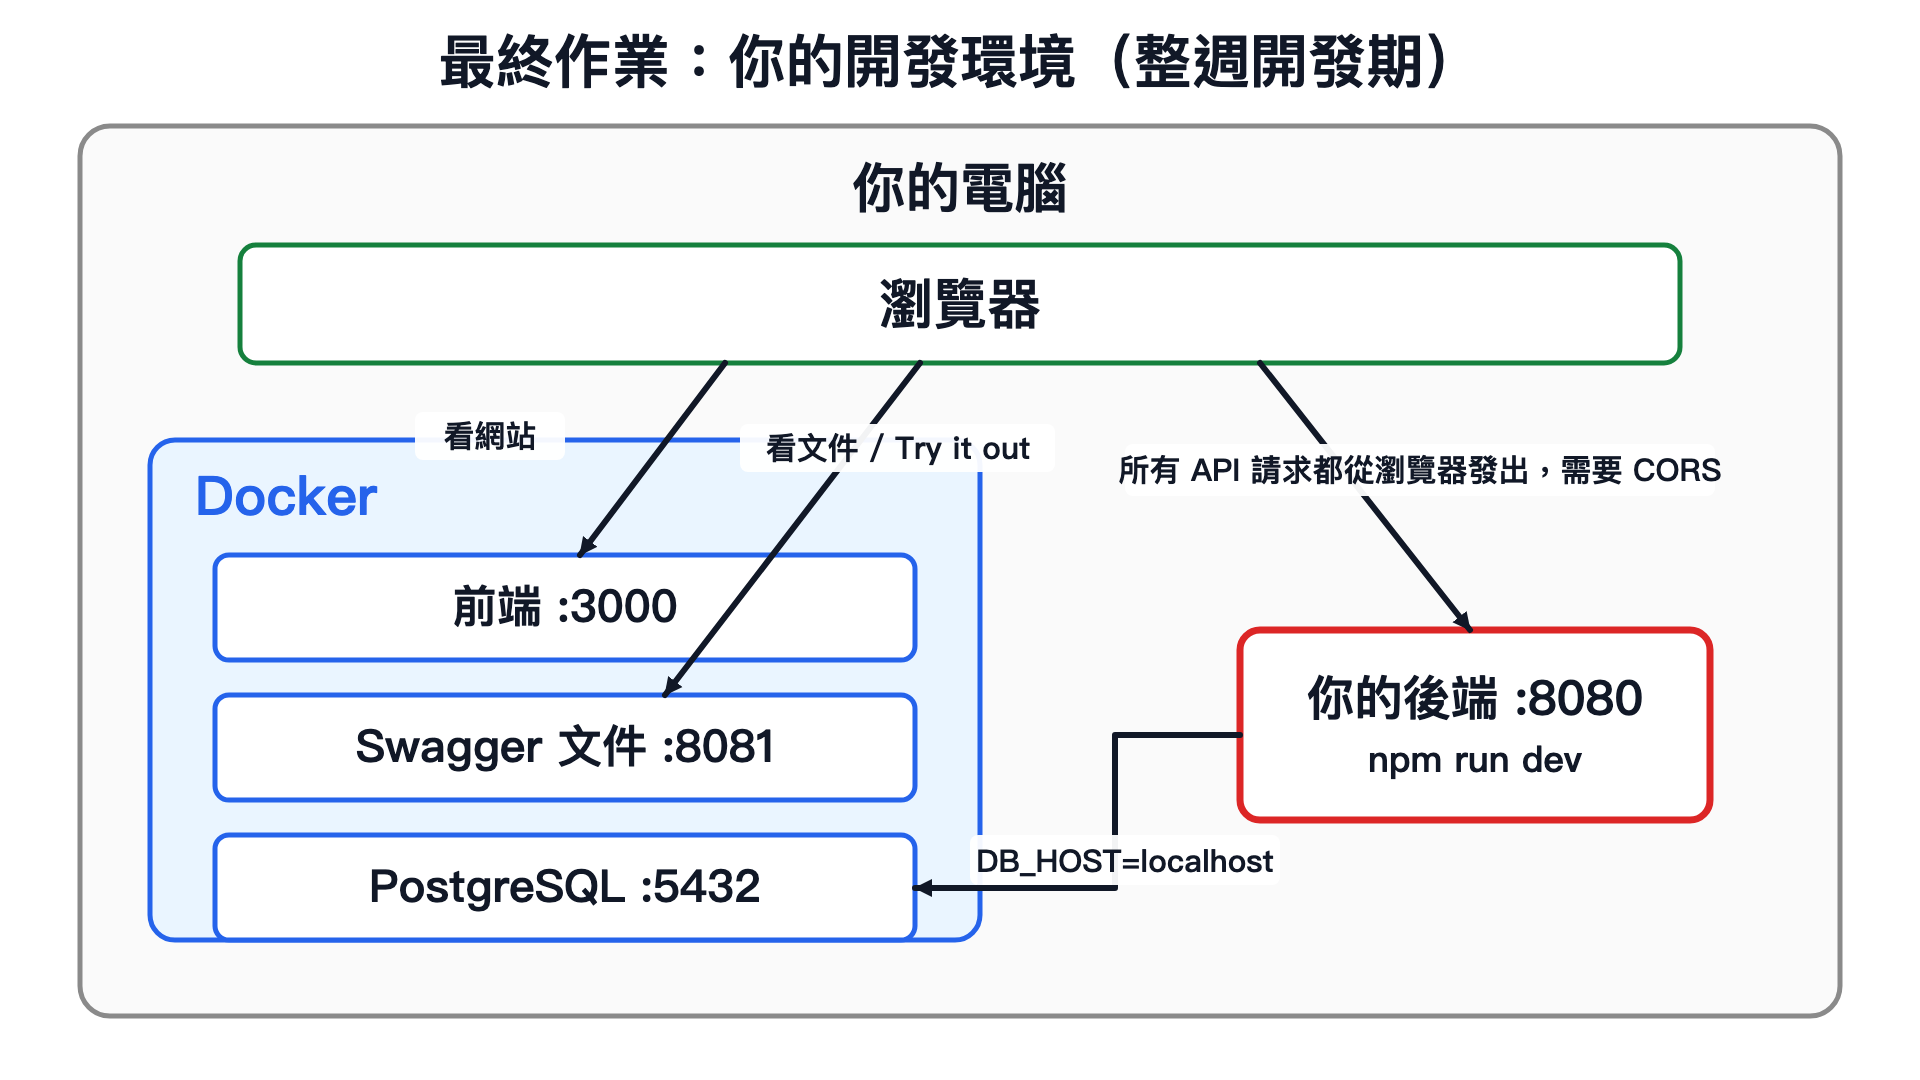
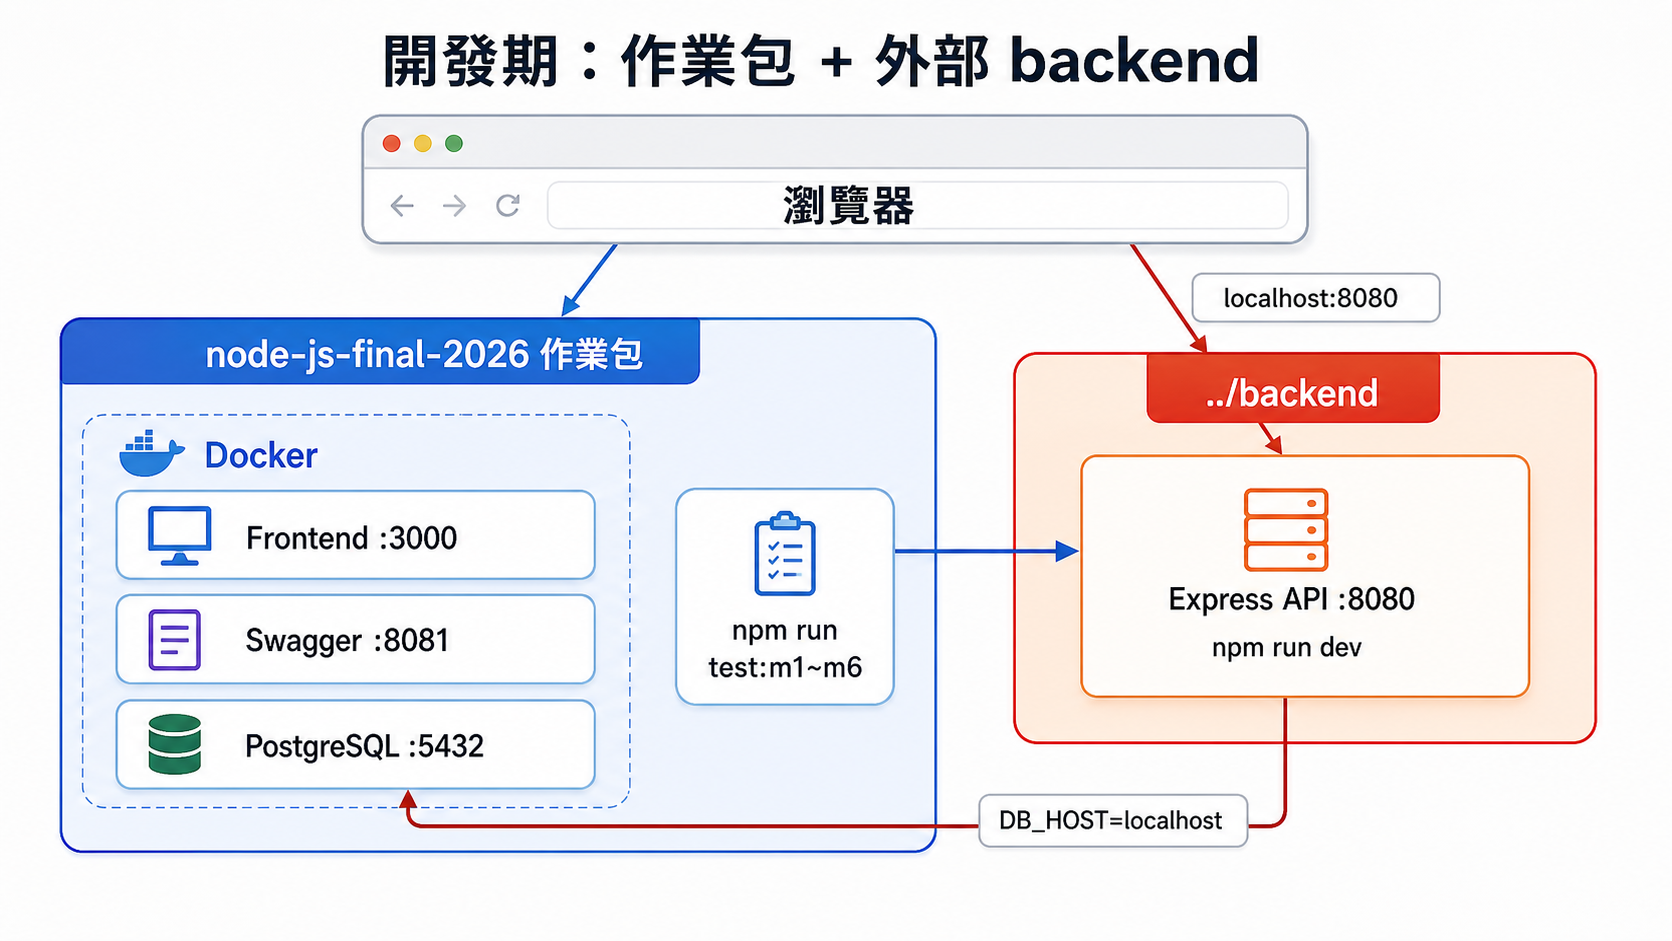
refactor: support external backend workflow

Changed region(s): [[0.0311, 0.0308, 0.9641, 0.9554], [0.0311, 0.1233, 0.0622, 0.1541]]

diff --git a/.github/scripts/check-backend.js b/.github/scripts/check-backend.js
@@ -1,0 +1,25 @@
+const fs = require('fs')
+const path = require('path')
+
+const backendPackagePath = path.join(process.cwd(), 'backend', 'package.json')
+
+function fail(message) {
+  console.error(message)
+  process.exit(1)
+}
+
+if (!fs.existsSync(backendPackagePath)) {
+  fail('⛔ 找不到 backend/package.json：本機開發時後端可以放在 repo 外面；正式繳交前，請把它搬進本 repo 的 backend/。')
+}
+
+let backendPackage
+try {
+  backendPackage = JSON.parse(fs.readFileSync(backendPackagePath, 'utf8'))
+} catch (error) {
+  fail('⛔ backend/package.json 不是合法 JSON，請先修正後再重新執行。')
+}
+
+if (!backendPackage.scripts || !backendPackage.scripts.start) {
+  fail('⛔ backend/package.json 缺少 scripts.start：正式繳交時，根目錄 npm start 會代理執行 npm --prefix backend start。')
+}
+

diff --git a/README.md b/README.md
@@ -34,30 +34,50 @@ docker compose up -d
 
 **成功長什麼樣**：`docker compose ps` 三個服務都在跑；打開 localhost:3000 看到健身房首頁。
 
-整週開發期的系統環境長這樣（注意：**你的後端在 Docker 外面**，跑在本機）：
+整週開發期的系統環境長這樣：這個 repo 是**作業包**，負責前端、Swagger、PostgreSQL 和測試；你的後端先放在作業包旁邊的 `../backend/`，跑在本機 `localhost:8080`。
 
 ![開發環境圖](docs/images/dev-environment.png)
 
-### Step 3：建立你的後端
+### Step 3：建立你的外部後端
 
 ```bash
-cp .env.example .env     # 資料庫連線資訊都在裡面，跟 Docker 裡的 PostgreSQL 對好了
-npm install              # 先裝驗收測試需要的工具
+npm install              # 在作業包根目錄先裝驗收測試需要的工具
 ```
 
-接下來就是你的世界：在這個 repo 裡蓋你的後端（資料夾結構自己決定），
-需要什麼套件自己 `npm install`。完成後記得遵守下面的四條公約。
+接著開一個**跟本 repo 同層**的後端資料夾：
 
-**成功長什麼樣**：你的 server 起來後（腳手架沒附 dev script，自己加一個，
-例如 `"dev": "nodemon bin/www.js"`），打開 http://localhost:8081
-對 `GET /healthcheck` 按 Try it out → 回 200。
+```bash
+cd ..
+mkdir backend
+cd backend
+npm init -y
+npm install express cors dotenv pg
+npm install -D nodemon
+cp ../node-js-final-2026/.env.example .env
+```
+
+如果你的作業包資料夾不叫 `node-js-final-2026`，把上面那段路徑換成你的資料夾名稱即可。`.env.example` 裡的資料庫連線資訊已經跟 Docker 裡的 PostgreSQL 對好，開發期 `DB_HOST=localhost`。
+
+開發期的資料夾會長這樣：
+
+```txt
+node-js-final-2026/   # 作業包：前端、Swagger、PostgreSQL、測試
+backend/              # 你自己寫的後端，跑在 localhost:8080
+```
+
+**成功長什麼樣**：在 `backend/` 裡啟動你的 server（例如 `npm run dev`），打開 http://localhost:8081 對 `GET /healthcheck` 按 Try it out → 回 200。
 
 ### Step 4：開發迴圈（每支 API 都這樣走）
 
+開發期建議固定開兩個終端機：
+
+- 終端機 A：在外部 `../backend/` 跑 `npm run dev`，讓後端持續聽 `localhost:8080`
+- 終端機 B：在本作業包根目錄跑 `npm run test:m1` ~ `npm run test:m6`
+
 1. **Swagger 看規格**（localhost:8081）— request/response 範例都在
-2. **寫 code** — 存檔自動重啟（建議用 nodemon）
+2. **在 `../backend/` 寫 code** — 存檔自動重啟（建議用 nodemon）
 3. **Try it out 試打** — 需要登入的 API 先按右上角 Authorize 貼上 login 拿到的 token
-4. **跑該里程碑的測試** — `npm run test:m1`（機器裁判，紅了照訊息修）
+4. **回作業包跑該里程碑的測試** — `npm run test:m1`（機器裁判，紅了照訊息修；測試會打 `localhost:8080`）
 5. **重新整理 localhost:3000** — 看著頁面活過來 🎉
 
 ---
@@ -66,8 +86,8 @@ npm install              # 先裝驗收測試需要的工具
 
 | # | 公約 | 為什麼 |
 |---|---|---|
-| ① | `npm start` 要能啟動你的後端，並聽 `PORT` 環境變數指定的 port | CI 用這個指令起你的 server |
-| ② | 資料庫連線與 `JWT_SECRET` 一律從環境變數讀（參考 `.env.example` 的 key 名） | CI 的資料庫設定跟你本機不同 |
+| ① | 正式繳交時，根目錄 `npm start` 要能啟動 `backend/` 裡的後端，並聽 `PORT` 環境變數指定的 port | CI 用這個指令起你的 server |
+| ② | 資料庫連線與 `JWT_SECRET` 一律從環境變數讀（開發期可把本 repo 的 `.env.example` 複製到外部 `backend/.env`） | CI 的資料庫設定跟你本機不同 |
 | ③ | 拿到**空的** PostgreSQL，你的後端要能自己把資料表建出來 | CI 每次都給你全新的資料庫 |
 | ④ | `GET /healthcheck` 回 200，而且要**等資料庫真的可用之後**才回 200 | CI 靠它判斷你的 server 就緒了沒 |
 
@@ -109,16 +129,23 @@ npm install              # 先裝驗收測試需要的工具
 | M4 | 公開瀏覽:教練列表/詳情/課表 | `npm run test:m4` | 教練列表、教練詳情 |
 | M5 | 購買與報名（地雷王） | `npm run test:m5` | 購買方案、報名課程、我的課表 |
 | M6 | 月營收統計 ⭐ 挑戰 | `npm run test:m6` | 教練營收報表 |
-| 壓軸 | 容器化:你的後端進 Docker | `npm run test:smoke` | — |
+| 壓軸 | 容器化:你的後端進 Docker | `docker compose up -d --build backend postgres` 後跑 `npm run test:smoke` | — |
 
 **通過標準**：GitHub Actions **七顆 jobs 全數綠燈**（66 條合約測試 + 容器化壓軸），缺一不可。
 
-**壓軸（W10 容器化挑戰）**：幫你的後端寫 Dockerfile、加進 `docker-compose.yml`
-（規則寫在 compose 檔的註解裡：服務叫 `backend`、對外開 8080、要有 healthcheck）。
+**壓軸（W10 容器化挑戰）**：本機 M1~M6 都過之後，把外面的 `backend/` 搬進本 repo，變成 `node-js-final-2026/backend/`。只要準備 push / 繳交，就必須先完成這個搬進 repo 的動作。接著幫你的後端寫 Dockerfile、加進 `docker-compose.yml`
+（規則寫在 compose 檔的註解裡：服務叫 `backend`、build `./backend`、對外開 8080、要有 healthcheck）。
 CI 會用你的 compose 起整包、跑 smoke、然後**重啟你的容器確認資料還在**
 （所以資料一定要真的存進 PostgreSQL，放在程式記憶體裡過不了這關）。
 
-容器化完成後的系統環境（對照上面開發期的圖：你的後端搬進圈內，`DB_HOST` 跟著變）：
+本機驗證容器化時，先停掉外部 `../backend/` 的 dev server，避免 8080 被佔住：
+
+```bash
+docker compose up -d --build backend postgres
+npm run test:smoke
+```
+
+容器化完成後的系統環境（對照上面開發期的圖：外部 `backend/` 被搬進本 repo，變成 Docker 裡的 `backend` service，`DB_HOST` 跟著變成 `postgres`）：
 
 ![容器化後環境圖](docs/images/dockerized.png)
 
@@ -126,26 +153,26 @@ CI 會用你的 compose 起整包、跑 smoke、然後**重啟你的容器確認
 
 ## 📮 繳交方式
 
-1. 全部做完（或做到哪交到哪）→ push 上 GitHub
+1. 全部做完並確認 `backend/` 已搬進本 repo，再 push 上 GitHub
 2. 確認 Actions 的 jobs 狀態（哪幾顆綠 = 你完成了哪些里程碑）
 3. 把 README 最上面 badge 連結裡的帳號/repo 改成你自己的
 4. **繳交：你的 repo 網址 + 一張前端跑起來的截圖**（任何一頁有真資料的畫面）
 
-> 📏 **考卷規則**：`test/` 與 `.github/` 兩個資料夾是考卷，**不可修改**。
-> 評分時會用原版測試抽查重跑，改考卷以 0 分計。（`frontend/` 與 `docs/` 也請不要動。）
+> 📏 **考卷規則**：`test/`、`.github/`、根目錄 `package.json` / `package-lock.json` 是驗收包，**不可修改**。
+> 評分時會用原版測試抽查重跑，改考卷以 0 分計。（你的後端依賴請裝在 `backend/package.json`；`frontend/` 與 `docs/` 也請不要動。）
 
 ---
 
 ## ❓ FAQ
 
 **Q1：前端打 API 一直被擋（CORS 錯誤）？**
-前端在 3000、你的後端在 8080，瀏覽器會擋跨來源請求。這就是 W3 教過的 `cors` 上場的時刻 — 想想那行 `app.use(cors())` 是幹嘛的。（Swagger 的 Try it out 從 8081 打過來顯示 `Failed to fetch` 也是同一件事——這行加了，前端跟 Swagger 同時通。）
+前端在 3000、你的後端在 8080，瀏覽器會擋跨來源請求。這就是 W3 教過的 `cors` 上場的時刻 — 想想那行 `app.use(cors())` 是幹嘛的。（不管你的後端開發期在外部 `../backend/`，還是最後搬進 Docker，前端和 Swagger 都是從瀏覽器打 `localhost:8080`。）
 
 **Q2：Actions 紅燈了，怎麼讀？**
-三步：① 看哪個 step 紅 — 「啟動你的後端」紅 = server 沒起來或 healthcheck 沒回 200，往下看 server.log 的錯誤訊息（通常是環境變數沒讀到）；② 「跑測試」紅 = 點開看哪個測試名稱失敗，測試名稱就是行為描述；③ 回本機 `npm run test:m{N}` 重現它。
+三步：① 看哪個 step 紅 — 「檢查 backend/」紅 = 忘了把外部後端搬進本 repo；「啟動你的後端」紅 = server 沒起來或 healthcheck 沒回 200，往下看 server.log 的錯誤訊息（通常是環境變數沒讀到）；② 「跑測試」紅 = 點開看哪個測試名稱失敗，測試名稱就是行為描述；③ 回本機 `npm run test:m{N}` 重現它。
 
 **Q3：本機測試紅、但 CI 是綠的（或相反）？**
-你本機的資料庫累積了很多測試資料，CI 每次都是全新的。先 `npm run db:reset`（會清空本機資料庫重來）再跑一次。做完壓軸後注意：`db:reset` 會連你的 backend 容器一起起來佔住 8080，本機開發時先 `docker compose stop backend`。
+你本機的資料庫累積了很多測試資料，CI 每次都是全新的。先在作業包跑 `npm run db:reset`（會清空本機資料庫重來）再跑一次。做完壓軸後注意：`db:reset` 會連你搬進 compose 的 backend 容器一起起來佔住 8080；本機開發外部 `../backend/` 時，先 `docker compose stop backend`。
 
 **Q4：測試裡的中文名字是什麼？**
 測試名稱描述「行為合約」，紅燈時讀測試名 → 去 Swagger 對應章節看規格 → 用 Try it out 手動重打一次，三步就能定位問題。
@@ -154,4 +181,4 @@ CI 會用你的 compose 起整包、跑 smoke、然後**重啟你的容器確認
 都可以。資料庫怎麼操作是你的事，驗收只看 HTTP 行為。課堂教過的工具都夠用。
 
 **Q6：`npm install` 之後 test 跑不動？**
-測試需要你的 server 先跑著，它是從外面打 HTTP 進來的。腳手架沒附 dev script——自己加一個（例如 `"dev": "nodemon bin/www.js"`）。
+測試需要你的 server 先跑著，它是從外面打 HTTP 進來的。開發期請先在外部 `../backend/` 跑 `npm run dev`，再回作業包跑 `npm run test:m1`。正式繳交前，請把 `backend/` 搬進本 repo，並讓 `backend/package.json` 有可用的 `start` script。
